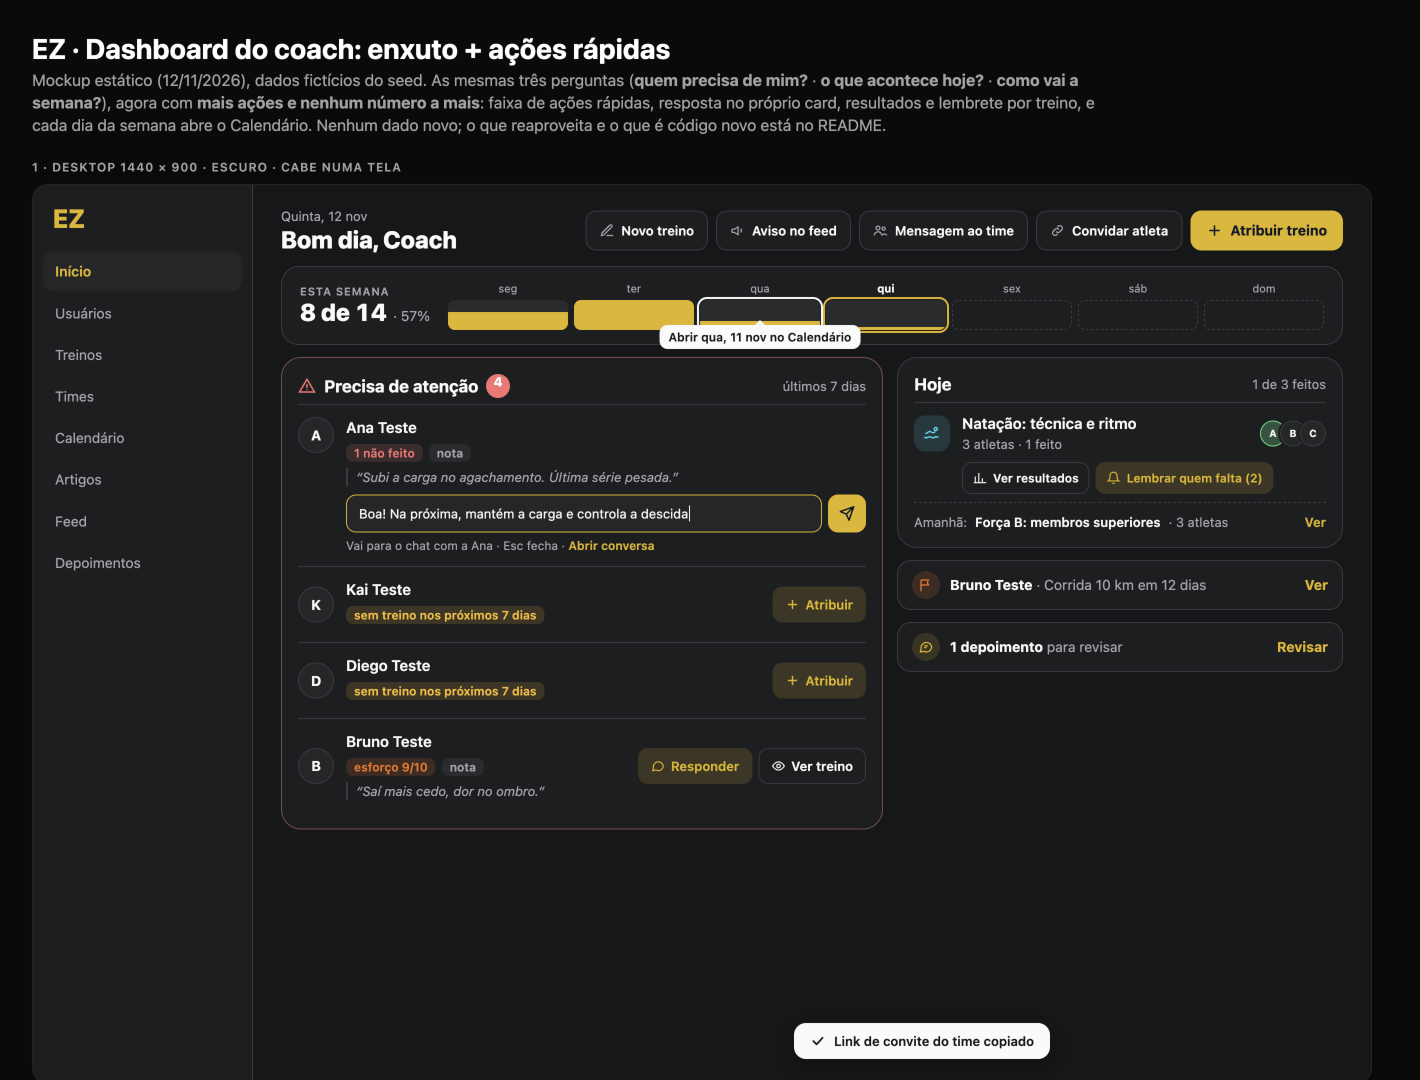
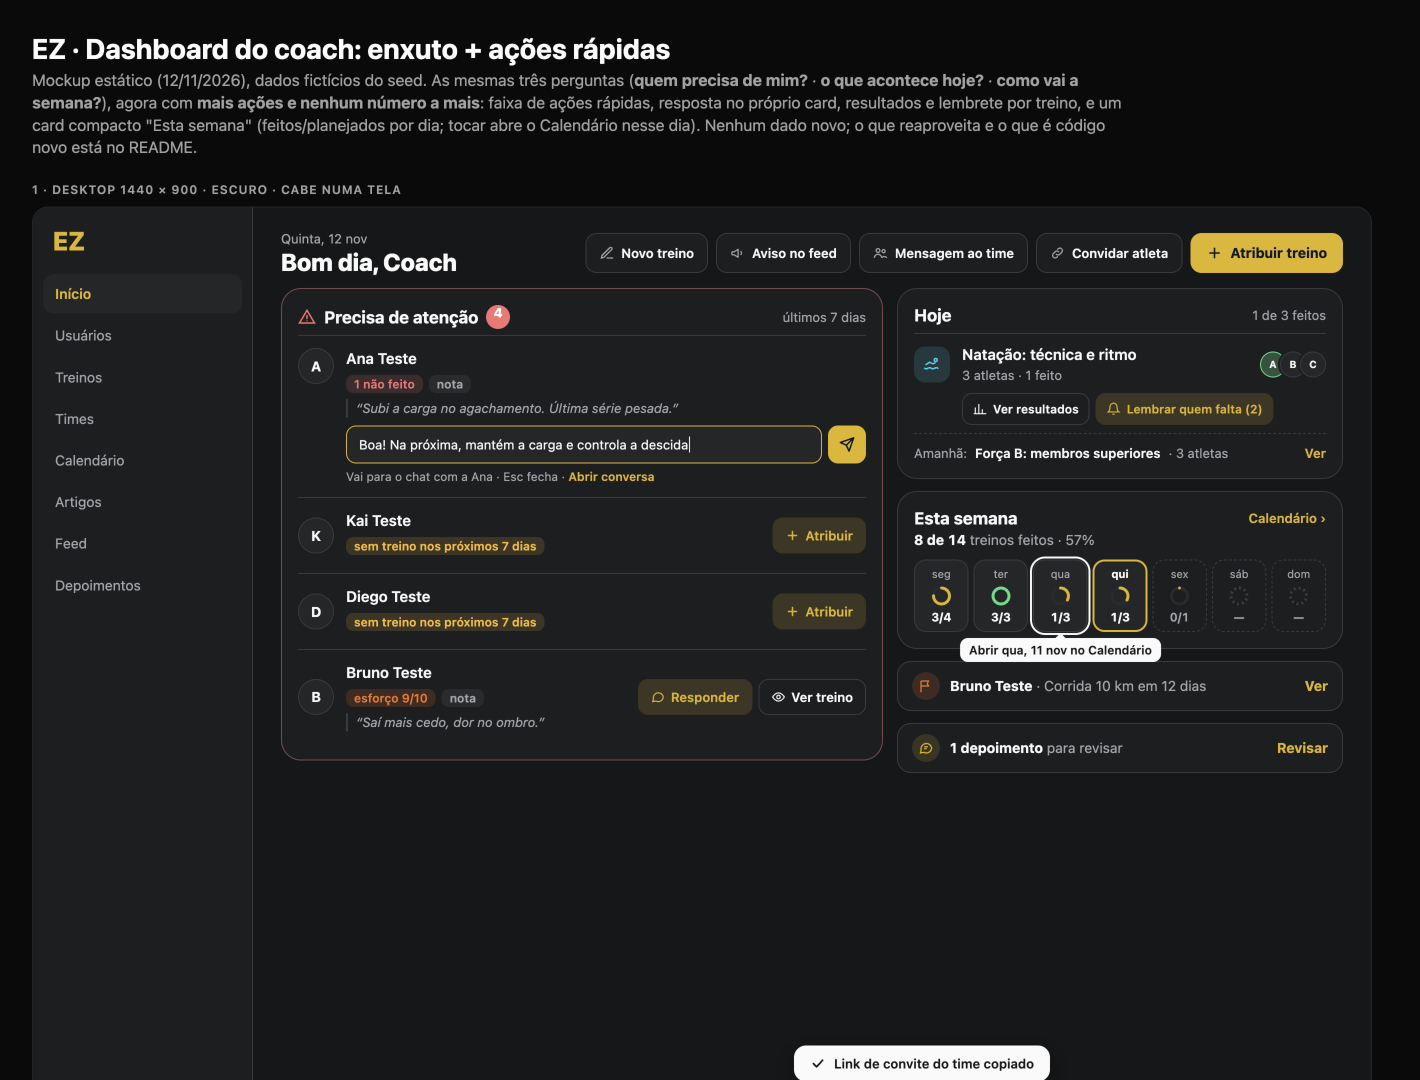
docs: coach dashboard compact week card instead of stretched bar

diff --git a/docs/design/coach-dashboard/dashboard-mockup.html b/docs/design/coach-dashboard/dashboard-mockup.html
@@ -96,6 +96,15 @@
   .rr .t{flex:1;min-width:0}.rr .t b{font-weight:600}.rr .t span{display:block;font-size:12px;color:var(--mfg)}
   .draft{margin-top:10px;border-radius:12px;background:var(--s2);border:1px dashed var(--border);padding:10px 12px;font-size:13px;color:var(--mfg)}
   .draft b{color:var(--fg);font-weight:600}
+
+  .wc .sum{font-size:14px;color:var(--mfg);margin:-2px 0 10px}.wc .sum b{color:var(--fg);font-weight:700;font-variant-numeric:tabular-nums}
+  .wd7{display:grid;grid-template-columns:repeat(7,1fr);gap:5px}
+  .wd7 .c{position:relative;border-radius:12px;border:1px solid var(--border);background:var(--s2);padding:6px 0 7px;display:grid;justify-items:center;gap:3px;font-size:11px;color:var(--mfg);cursor:pointer}
+  .wd7 .c b{font:700 12px var(--font);color:var(--fg);font-variant-numeric:tabular-nums}
+  .wd7 .c.fut{background:transparent;border-style:dashed}.wd7 .c.fut b{color:var(--mfg);font-weight:600}
+  .wd7 .c.on{border:2px solid var(--primary);padding:5px 0 6px}.wd7 .c.on span:first-child{color:var(--fg);font-weight:700}
+  .wd7 .c.hv{outline:2px solid var(--fg);outline-offset:1px}
+  .wd7 svg{width:22px;height:22px;transform:rotate(-90deg)}
 </style>
 </head>
 <body>
@@ -125,7 +134,7 @@
 </defs></svg>
 
 <h1 class="ttl">EZ · Dashboard do coach: enxuto + ações rápidas</h1>
-<p class="doc">Mockup estático (12/11/2026), dados fictícios do seed. As mesmas três perguntas (<b>quem precisa de mim?</b> · <b>o que acontece hoje?</b> · <b>como vai a semana?</b>), agora com <b>mais ações e nenhum número a mais</b>: faixa de ações rápidas, resposta no próprio card, resultados e lembrete por treino, e cada dia da semana abre o Calendário. Nenhum dado novo; o que reaproveita e o que é código novo está no README.</p>
+<p class="doc">Mockup estático (12/11/2026), dados fictícios do seed. As mesmas três perguntas (<b>quem precisa de mim?</b> · <b>o que acontece hoje?</b> · <b>como vai a semana?</b>), agora com <b>mais ações e nenhum número a mais</b>: faixa de ações rápidas, resposta no próprio card, resultados e lembrete por treino, e um card compacto "Esta semana" (feitos/planejados por dia; tocar abre o Calendário nesse dia). Nenhum dado novo; o que reaproveita e o que é código novo está no README.</p>
 
 <div class="lbl">1 · Desktop 1440 × 900 · escuro · cabe numa tela</div>
 <div class="row"><div class="desk dark" style="position:relative">
@@ -133,8 +142,6 @@
  <div class="main">
   <div class="head"><div class="t"><small>Quinta, 12 nov</small><b>Bom dia, Coach</b></div>
    <div class="qa"><span class="qb"><svg width="14" height="14"><use href="#edit"/></svg>Novo treino</span><span class="qb"><svg width="14" height="14"><use href="#mega"/></svg>Aviso no feed</span><span class="qb"><svg width="14" height="14"><use href="#team"/></svg>Mensagem ao time</span><span class="qb"><svg width="14" height="14"><use href="#link"/></svg>Convidar atleta</span><span class="btn"><svg width="16" height="16"><use href="#plus"/></svg>Atribuir treino</span></div></div>
-  <div class="wk"><div class="num"><small>Esta semana</small><b>8 de 14</b><span>· 57%</span></div>
-   <div class="days"><div class="day">seg<div class="col"><i style="height:60%"></i></div></div><div class="day">ter<div class="col"><i style="height:100%"></i></div></div><div class="day" style="position:relative">qua<div class="col" style="outline:2px solid var(--fg);outline-offset:1px"><i style="height:30%"></i></div><span class="tip">Abrir qua, 11 nov no Calendário</span></div><div class="day on">qui<div class="col"><i style="height:10%"></i></div></div><div class="day">sex<div class="col fut"></div></div><div class="day">sáb<div class="col fut"></div></div><div class="day">dom<div class="col fut"></div></div></div></div>
   <div class="g2">
    <div class="att">
     <div class="ch"><b><svg width="18" height="18" style="color:var(--badc)"><use href="#alert"/></svg>Precisa de atenção <span class="cnt">4</span></b><span class="r">últimos 7 dias</span></div>
@@ -151,6 +158,7 @@
      <div class="wa"><span class="ab"><svg width="14" height="14"><use href="#chart"/></svg>Ver resultados</span><span class="ab y"><svg width="14" height="14"><use href="#bellr"/></svg>Lembrar quem falta (2)</span></div>
      <div class="tmr">Amanhã: <b>Força B: membros superiores</b> · 3 atletas<a>Ver</a></div>
     </div>
+    <div class="card wc"><div class="ch" style="margin-bottom:4px"><b>Esta semana</b><a class="r" style="color:var(--ink);font-weight:600">Calendário ›</a></div><div class="sum"><b>8 de 14</b> treinos feitos · 57%</div><div class="wd7"><div class="c "><span>seg</span><svg viewBox="0 0 22 22"><circle cx="11" cy="11" r="8" fill="none" stroke="var(--muted)" stroke-width="3"/><circle cx="11" cy="11" r="8" fill="none" stroke="var(--primary)" stroke-width="3" stroke-linecap="round" stroke-dasharray="37.7 50.27"/></svg><b>3/4</b></div><div class="c "><span>ter</span><svg viewBox="0 0 22 22"><circle cx="11" cy="11" r="8" fill="none" stroke="var(--muted)" stroke-width="3"/><circle cx="11" cy="11" r="8" fill="none" stroke="var(--okc)" stroke-width="3" stroke-linecap="round" stroke-dasharray="50.3 50.27"/></svg><b>3/3</b></div><div class="c hv"><span>qua</span><svg viewBox="0 0 22 22"><circle cx="11" cy="11" r="8" fill="none" stroke="var(--muted)" stroke-width="3"/><circle cx="11" cy="11" r="8" fill="none" stroke="var(--primary)" stroke-width="3" stroke-linecap="round" stroke-dasharray="16.8 50.27"/></svg><b>1/3</b><span class="tip" style="top:calc(100% + 7px)">Abrir qua, 11 nov no Calendário</span></div><div class="c on"><span>qui</span><svg viewBox="0 0 22 22"><circle cx="11" cy="11" r="8" fill="none" stroke="var(--muted)" stroke-width="3"/><circle cx="11" cy="11" r="8" fill="none" stroke="var(--primary)" stroke-width="3" stroke-linecap="round" stroke-dasharray="16.8 50.27"/></svg><b>1/3</b></div><div class="c fut"><span>sex</span><svg viewBox="0 0 22 22"><circle cx="11" cy="11" r="8" fill="none" stroke="var(--muted)" stroke-width="3"/><circle cx="11" cy="11" r="8" fill="none" stroke="var(--primary)" stroke-width="3" stroke-linecap="round" stroke-dasharray="0.0 50.27"/></svg><b>0/1</b></div><div class="c fut"><span>sáb</span><svg viewBox="0 0 22 22"><circle cx="11" cy="11" r="8" fill="none" stroke="var(--border)" stroke-width="3" stroke-dasharray="2 3"/></svg><b>—</b></div><div class="c fut"><span>dom</span><svg viewBox="0 0 22 22"><circle cx="11" cy="11" r="8" fill="none" stroke="var(--border)" stroke-width="3" stroke-dasharray="2 3"/></svg><b>—</b></div></div></div>
     <div class="nt"><span class="ic" style="background:hsl(25 95% 53% / .15);color:var(--str)"><svg><use href="#flag"/></svg></span><span><b>Bruno Teste</b> <span class="m">· Corrida 10 km em 12 dias</span></span><a>Ver</a></div>
     <div class="nt"><span class="ic" style="background:hsl(48 96% 45% / .15);color:var(--ink)"><svg><use href="#quote"/></svg></span><span><b>1 depoimento</b> <span class="m">para revisar</span></span><a>Revisar</a></div>
    </div>
@@ -158,16 +166,14 @@
  </div>
  <div class="toast" style="left:calc(220px + 50%)"><svg width="16" height="16"><use href="#check"/></svg>Link de convite do time copiado</div>
 </div></div>
-<p class="note" style="max-width:1100px;margin-top:-28px;margin-bottom:40px">Cabe em 1440 × 900 sem rolar. Estados mostrados ao mesmo tempo só para o mockup: resposta rápida aberta na Ana, dica ao passar o mouse em "qua" e o toast de "Convidar atleta". "Atribuir treino" continua o botão principal, à direita.</p>
+<p class="note" style="max-width:1100px;margin-top:-28px;margin-bottom:40px">Cabe em 1440 × 900 sem rolar. Estados mostrados ao mesmo tempo só para o mockup: resposta rápida aberta na Ana, dica ao passar o mouse em "qua" no card da semana e o toast de "Convidar atleta". "Atribuir treino" continua o botão principal, à direita.</p>
 
 <div class="lbl">2 · Celular 390 px · claro: ações rápidas e resposta no card · resultados e lembrete de "Hoje"</div>
 <div class="row">
-<div class="phone light" style="height:1240px">
+<div class="phone light" style="height:1330px">
  <div class="top"><span style="font:800 24px var(--display);color:var(--ink)">EZ</span><div style="display:flex;gap:8px"><div class="g"><svg><use href="#msg"/></svg></div><div class="g"><svg><use href="#bell"/></svg></div></div></div>
  <div class="pp">
   <div class="chiprow"><span class="qb p"><svg width="14" height="14"><use href="#plus"/></svg>Atribuir</span><span class="qb"><svg width="14" height="14"><use href="#edit"/></svg>Novo treino</span><span class="qb"><svg width="14" height="14"><use href="#mega"/></svg>Aviso no feed</span><span class="qb"><svg width="14" height="14"><use href="#team"/></svg>Mensagem ao time</span><span class="qb"><svg width="14" height="14"><use href="#link"/></svg>Convidar</span></div>
-  <div class="wk"><div class="num"><small>Esta semana · toque num dia</small><b>8 de 14</b><span>· 57%</span></div>
-   <div class="days"><div class="day">seg<div class="col"><i style="height:60%"></i></div></div><div class="day">ter<div class="col"><i style="height:100%"></i></div></div><div class="day" style="position:relative">qua<div class="col" ><i style="height:30%"></i></div></div><div class="day on">qui<div class="col"><i style="height:10%"></i></div></div><div class="day">sex<div class="col fut"></div></div><div class="day">sáb<div class="col fut"></div></div><div class="day">dom<div class="col fut"></div></div></div></div>
   <div class="att">
    <div class="ch"><b><svg width="18" height="18" style="color:var(--badc)"><use href="#alert"/></svg>Precisa de atenção <span class="cnt">4</span></b></div>
    <div class="ai"><span class="av">A</span><div class="t"><div class="nm">Ana Teste</div><div class="chips"><span class="chip c-bad">1 não feito</span><span class="chip c-mut">nota</span></div><div class="quote">“Subi a carga no agachamento…”</div>
@@ -182,6 +188,7 @@
    <div class="wa" style="margin-left:0"><span class="ab">Ver resultados</span><span class="ab y">Lembrar quem falta (2)</span></div>
    <div class="tmr">Amanhã: <b>Força B</b> · 3 atletas<a>Ver</a></div>
   </div>
+  <div class="card wc"><div class="ch" style="margin-bottom:4px"><b>Esta semana</b><a class="r" style="color:var(--ink);font-weight:600">Calendário ›</a></div><div class="sum"><b>8 de 14</b> treinos feitos · 57%</div><div class="wd7"><div class="c "><span>seg</span><svg viewBox="0 0 22 22"><circle cx="11" cy="11" r="8" fill="none" stroke="var(--muted)" stroke-width="3"/><circle cx="11" cy="11" r="8" fill="none" stroke="var(--primary)" stroke-width="3" stroke-linecap="round" stroke-dasharray="37.7 50.27"/></svg><b>3/4</b></div><div class="c "><span>ter</span><svg viewBox="0 0 22 22"><circle cx="11" cy="11" r="8" fill="none" stroke="var(--muted)" stroke-width="3"/><circle cx="11" cy="11" r="8" fill="none" stroke="var(--okc)" stroke-width="3" stroke-linecap="round" stroke-dasharray="50.3 50.27"/></svg><b>3/3</b></div><div class="c "><span>qua</span><svg viewBox="0 0 22 22"><circle cx="11" cy="11" r="8" fill="none" stroke="var(--muted)" stroke-width="3"/><circle cx="11" cy="11" r="8" fill="none" stroke="var(--primary)" stroke-width="3" stroke-linecap="round" stroke-dasharray="16.8 50.27"/></svg><b>1/3</b></div><div class="c on"><span>qui</span><svg viewBox="0 0 22 22"><circle cx="11" cy="11" r="8" fill="none" stroke="var(--muted)" stroke-width="3"/><circle cx="11" cy="11" r="8" fill="none" stroke="var(--primary)" stroke-width="3" stroke-linecap="round" stroke-dasharray="16.8 50.27"/></svg><b>1/3</b></div><div class="c fut"><span>sex</span><svg viewBox="0 0 22 22"><circle cx="11" cy="11" r="8" fill="none" stroke="var(--muted)" stroke-width="3"/><circle cx="11" cy="11" r="8" fill="none" stroke="var(--primary)" stroke-width="3" stroke-linecap="round" stroke-dasharray="0.0 50.27"/></svg><b>0/1</b></div><div class="c fut"><span>sáb</span><svg viewBox="0 0 22 22"><circle cx="11" cy="11" r="8" fill="none" stroke="var(--border)" stroke-width="3" stroke-dasharray="2 3"/></svg><b>—</b></div><div class="c fut"><span>dom</span><svg viewBox="0 0 22 22"><circle cx="11" cy="11" r="8" fill="none" stroke="var(--border)" stroke-width="3" stroke-dasharray="2 3"/></svg><b>—</b></div></div></div>
   <div class="nt"><span class="ic" style="background:hsl(25 95% 53% / .15);color:var(--str)"><svg><use href="#flag"/></svg></span><span><b>Bruno</b> <span class="m">· 10 km em 12 dias</span></span><a>Ver</a></div>
   <div class="nt"><span class="ic" style="background:hsl(48 96% 45% / .15);color:var(--ink)"><svg><use href="#quote"/></svg></span><span><b>1 depoimento</b> <span class="m">para revisar</span></span><a>Revisar</a></div>
  </div>
@@ -200,7 +207,7 @@
   <div style="display:flex;margin-top:12px"><span class="ab" style="flex:1;justify-content:center">Fechar</span></div>
  </div>
 </div>
-<p class="note">Esquerda: as ações rápidas viram chips roláveis no topo, com "Atribuir" primeiro (o botão flutuante saiu, para não repetir). A resposta rápida abre no próprio card. Com 4 pendências e 2 avisos, a página tem ~1,4 tela. Direita: "Ver resultados" e "Lembrar quem falta" abrem a mesma folha. "Lembrar" abre o chat de cada atleta com o texto já no campo; o coach revisa e envia.</p>
+<p class="note">Esquerda: as ações rápidas viram chips roláveis no topo, com "Atribuir" primeiro (o botão flutuante saiu, para não repetir). A resposta rápida abre no próprio card. Com 4 pendências e 2 avisos, a página tem ~1,5 tela. Direita: "Ver resultados" e "Lembrar quem falta" abrem a mesma folha. "Lembrar" abre o chat de cada atleta com o texto já no campo; o coach revisa e envia.</p>
 </div>
 </body>
 </html>

diff --git a/docs/design/coach-dashboard/README.md b/docs/design/coach-dashboard/README.md
@@ -6,9 +6,9 @@
 **Perguntas que a tela responde (princípio do EZ Lead), em ordem:**
 1. **Quem precisa de mim?** O bloco principal, com as ações.
 2. **O que acontece hoje?** Os treinos agrupados, com amanhã numa linha.
-3. **Como vai a semana?** Um número e a barra dos dias.
+3. **Como vai a semana?** Um card pequeno: "8 de 14 treinos feitos · 57%" e feitos/planejados por dia.
 
-**Meta:** cabe numa tela em 1440 × 900; no celular, ~1,4 tela com 4 pendências e 2 avisos.
+**Meta:** cabe numa tela em 1440 × 900; no celular, ~1,5 tela com 4 pendências e 2 avisos.
 
 **Ajuste de 12/11 (pedido do usuário: "mais algumas infos de ação rápida para o coach"):** os 3 blocos ficam; entram **ações, nenhum número a mais**. Nada novo no Firestore. Cada ação está marcada como **reaproveita** (o fluxo já existe e só ganha um atalho) ou **novo** (código novo de UI, sem dado novo).
 
@@ -39,7 +39,7 @@ Testado no emulador como `coach@ez.test`, em 1440 px e 390 px, tema escuro. Dado
 ![Desktop 1440 escuro, uma tela, com ações rápidas](img/proposta-1-desktop.png)
 ![Celular claro: chips de ação e resposta no card; folha de resultados e lembrete](img/proposta-2-mobile.png)
 
-**Ordem:** cabeçalho (data, saudação, **ações rápidas**) → **semana numa linha** → **precisa de atenção** (desktop: coluna principal) → **hoje** (+ linha de amanhã) → avisos, só quando existem.
+**Ordem:** cabeçalho (data, saudação, **ações rápidas**) → **precisa de atenção** (desktop: coluna principal) → **hoje** (+ linha de amanhã) → **esta semana** (card pequeno; desktop: abaixo de "Hoje", na coluna da direita) → avisos, só quando existem.
 
 ### 2.0 Ações rápidas (faixa abaixo da saudação)
 - **Desktop:** na linha da saudação, à direita; "Atribuir treino" continua o botão principal (amarelo, por último) e as outras 4 são botões de contorno.
@@ -55,14 +55,21 @@ Testado no emulador como `coach@ez.test`, em 1440 px e 390 px, tema escuro. Dado
 
 - Com **mais de um time**, "Mensagem ao time" e "Convidar atleta" abrem um menu para escolher o time; com um time só, a ação é direta.
 
-### 2.1 Semana numa linha
-- **Um número só:** "8 de 14 · 57%", com os treinos feitos sobre os previstos **da semana atual** (seg–dom), sem os antigos.
-- **Barra por dia:** 7 colunas com a altura igual à % feita; hoje tem contorno e os dias futuros ficam tracejados.
+### 2.1 Esta semana (card compacto)
+**Ajuste de 12/11:** o usuário achou a faixa de 7 barras "estranha, toda esticada" e não entendeu para que servia. **A faixa saiu.** Nada de barras na largura toda.
+
+- **Onde:** desktop, na coluna da direita, logo abaixo de "Hoje"; celular, abaixo de "Hoje". O topo fica só com saudação, ações e atenção.
+- **Título** "Esta semana" + link "Calendário ›"; **linha** "**8 de 14** treinos feitos · 57%" (só a semana atual, seg–dom).
+- **7 dias compactos** (células de ~54 px): dia, um **anel pequeno** de progresso e **"feitos/planejados"** ("3/4").
+  - Anel verde quando o dia fechou completo; amarelo quando parcial.
+  - **Hoje** com borda `primary`.
+  - Dias futuros tracejados, com o planejado ("0/1"); dia sem treino, "—".
 - **Tocar num dia abre o Calendário do coach nesse dia** (dica no hover: "Abrir qua, 11 nov no Calendário"). **Novo (pequeno):** `/admin/calendar` hoje não lê data da URL; precisa aceitar `?date=AAAA-MM-DD` e chamar `setSelectedDate`/`setCurrentMonth`, que já existem.
 - **Dados:** vêm das atribuições já carregadas (`completedAt`, `scheduledDate`). **Nada novo.**
+- **Recomendo o card**, não só a linha de texto: o "1/3" de quarta mostra **em que dia** a semana falhou e leva direto ao Calendário para remarcar, o que a linha sozinha não faz. **Alternativa mínima**, se o card ainda parecer demais: só a linha "8 de 14 treinos feitos · 57% · Ver no Calendário ›" no fim do card "Hoje".
 
 ### 2.2 Precisa de atenção (bloco principal)
-- Desktop: a coluna da esquerda, a mais larga, com borda `destructive/35`. Celular: logo abaixo da semana.
+- Desktop: a coluna da esquerda, a mais larga, com borda `destructive/35`. Celular: logo abaixo das ações rápidas.
 - Cada atleta tem avatar, nome e **chips com os motivos que o código já calcula** (`attention`, `Dashboard.tsx:176-212`):
 
 | Motivo | Chip | Ações |
@@ -101,7 +108,8 @@ Testado no emulador como `coach@ez.test`, em 1440 px e 390 px, tema escuro. Dado
 |---|---|
 | 3 dos 4 números (treinos feitos, atletas que treinaram, horas do time) e os cards de inventário | Não levam a uma decisão. "8 de 14 · 57%" e a lista de atenção já dizem se a semana vai bem e quem está fora. |
 | "Conclusão geral 79%" com treinos antigos | Misturava períodos; agora só conta a semana atual. |
-| Gráfico de tendência de 8 semanas | Ilegível (C7) e não leva a uma ação hoje. A barra dos dias responde "como vai a semana". |
+| Gráfico de tendência de 8 semanas | Ilegível (C7) e não leva a uma ação hoje. O card "Esta semana" responde "como vai a semana". |
+| Faixa de 7 barras esticada na largura toda (versão f2624bc) | Pouco clara para o coach ("não sei pra que serve"); virou o card compacto com "3/4" por dia. |
 | Tabela "Atletas nesta semana" e "Destaques da semana" | Já existem em Usuários; quem precisa de ação aparece em "Precisa de atenção". |
 | Bloco "Amanhã" | Virou uma linha no fim de "Hoje". |
 | Faixa de datas e "Atividade de hoje" | A faixa repete o Calendário; a atividade de hoje entrou em "Hoje", agrupada. |
@@ -120,7 +128,7 @@ Testado no emulador como `coach@ez.test`, em 1440 px e 390 px, tema escuro. Dado
 | ID | Tarefa | Tam. | Arquivos |
 |---|---|---|---|
 | ⭐ CD-1 | **Precisa de atenção como bloco principal:** coluna principal no desktop e 2º bloco no celular; chips por motivo; **resposta rápida no card** (campo + enviar no chat); Ver treino; Atribuir; estado vazio. | M | `src/pages/admin/Dashboard.tsx` (bloco `attention`, ~l. 176-215, e o JSX), `src/components/admin/AttentionList.tsx` (novo), `src/services/chat.ts` (só uso) |
-| ⭐ CD-2 | **Semana numa linha:** "x de y · %" só da semana atual + barra por dia; **tocar no dia abre `/admin/calendar?date=`** (Calendar passa a ler `date`). Hook `useTeamWeekStats(assignments)`, com teste. | P | `Dashboard.tsx`, `src/hooks/useTeamWeekStats.ts` (novo), `src/pages/admin/Calendar.tsx` |
+| ⭐ CD-2 | **Card "Esta semana"** abaixo de "Hoje": "x de y treinos feitos · %" só da semana atual + 7 dias compactos (anel + "feitos/planejados", hoje destacado, futuros tracejados); **tocar no dia abre `/admin/calendar?date=`** (Calendar passa a ler `date`). Hook `useTeamWeekStats(assignments)` com contagem por dia, com teste. | P | `Dashboard.tsx`, `src/components/admin/WeekCard.tsx` (novo), `src/hooks/useTeamWeekStats.ts` (novo), `src/pages/admin/Calendar.tsx` |
 | ⭐ CD-3 | **Ações rápidas:** faixa no desktop e chips roláveis no celular (Atribuir, Novo treino, Aviso no feed, Mensagem ao time, Convidar atleta), todas com fluxos que já existem; menu de time quando houver mais de um; remover o botão flutuante. | P | `Dashboard.tsx`, `src/components/admin/QuickActions.tsx` (novo), `src/contexts/TimelineActionsContext.tsx` (só uso) |
 | ⭐ CD-4 | **Remover o que saiu:** cards de inventário, "Conclusão geral", tendência (`LineChart`), tabela de atletas, "Destaques", faixa de datas, "Atividade de hoje", "Atividade recente", "Times", bloco "Amanhã". | P | `Dashboard.tsx` (~l. 400-760) |
 | CD-5 | **Hoje agrupado por treino** + linha "Amanhã" + **Ver resultados / Lembrar quem falta** (folha com rpe e nota; "Lembrar" abre o chat com o texto no campo, sem envio automático). | M | `Dashboard.tsx`, `src/components/admin/TodayWorkoutSheet.tsx` (novo), `src/components/chat/ChatWindow.tsx` (rascunho já existe) |
